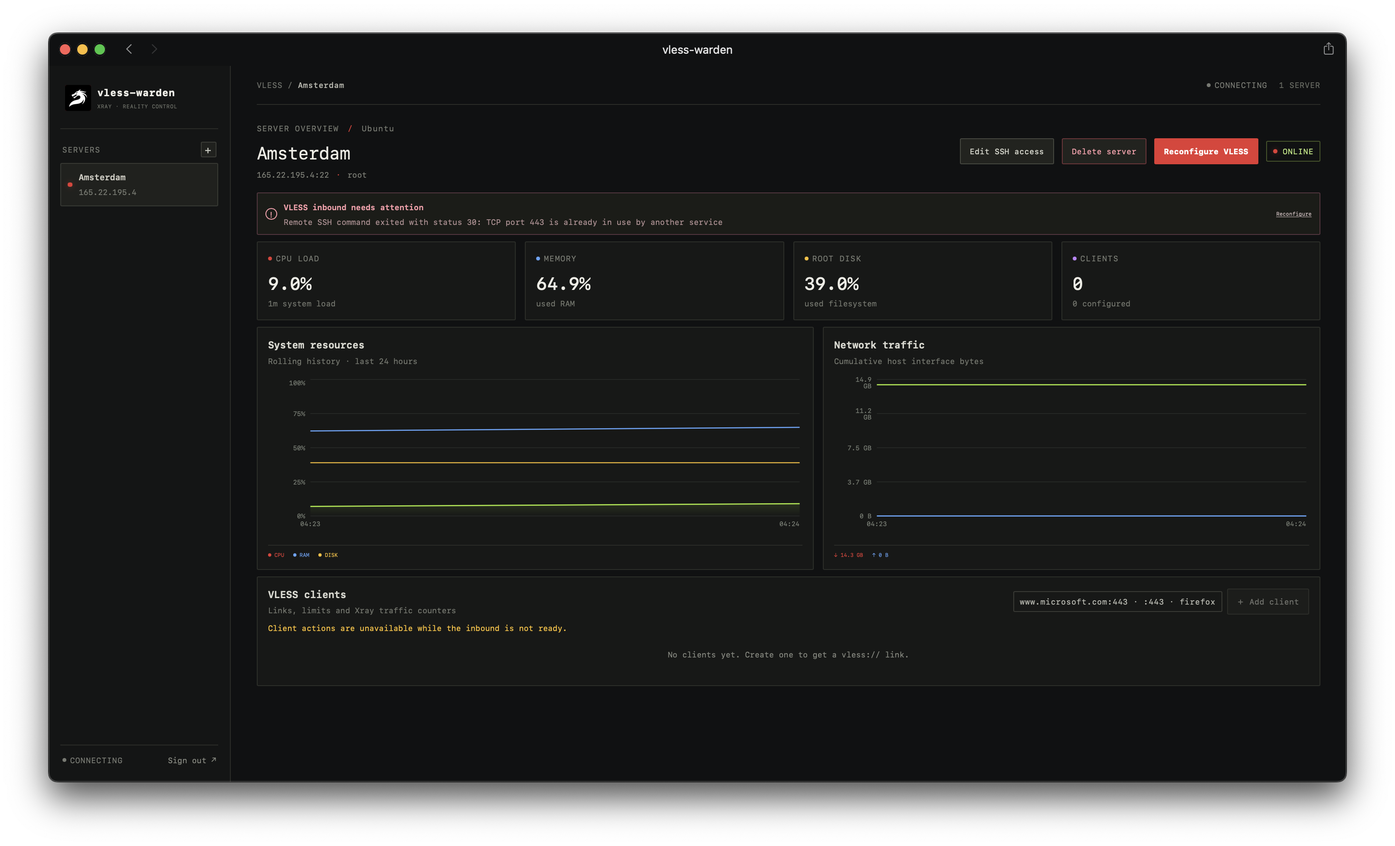
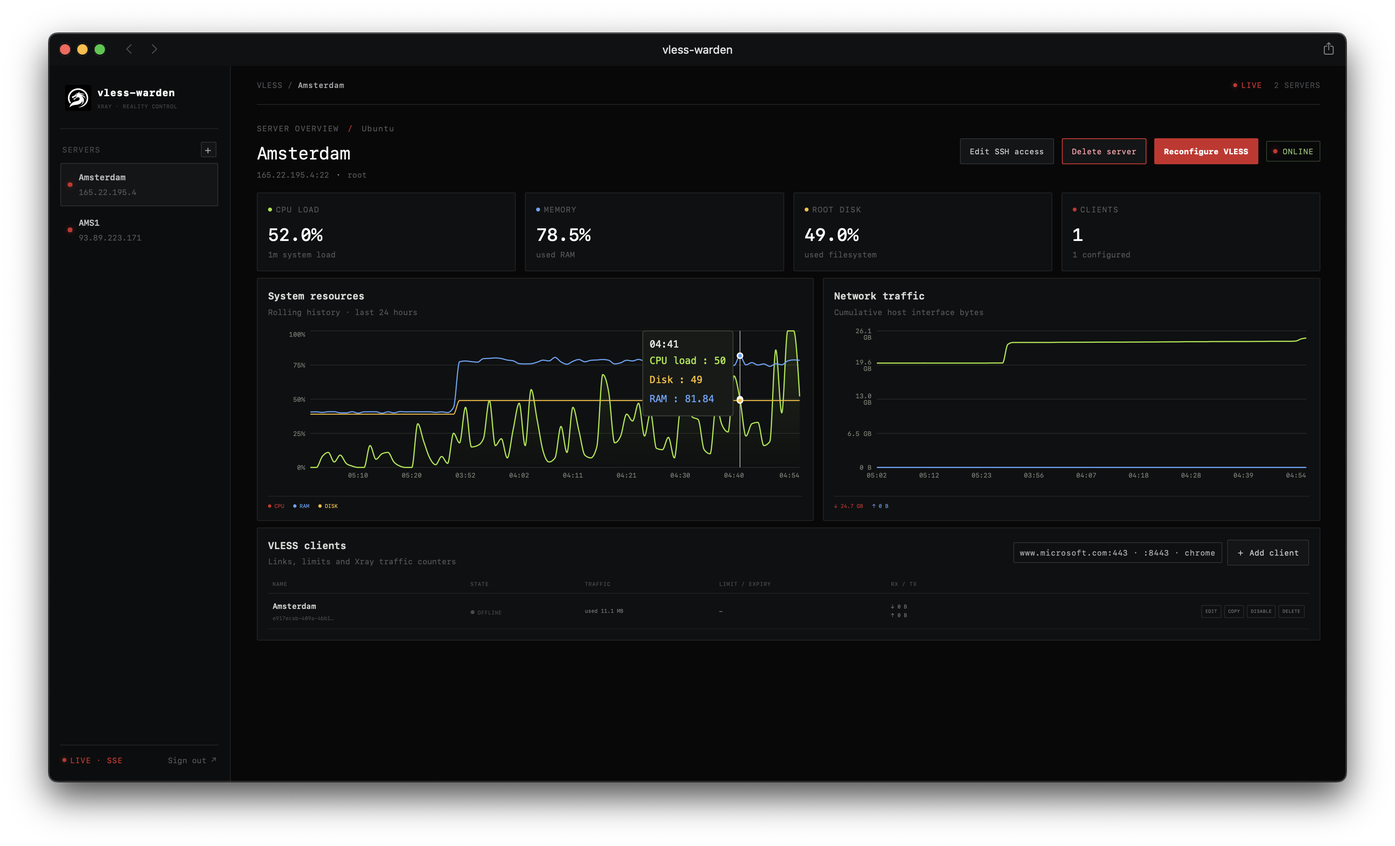
minor redesign

diff --git a/frontend/src/style.css b/frontend/src/style.css
@@ -1,39 +1,228 @@
 @import "tailwindcss";
 
-:root{font-family:ui-monospace,SFMono-Regular,Menlo,Monaco,Consolas,"Liberation Mono",monospace;color:#dddcd4;background:#101112;font-synthesis:none;text-rendering:optimizeLegibility;font-size:13px}*{box-sizing:border-box}body{margin:0;min-width:360px;min-height:100vh}button,input,textarea{font:inherit}button{cursor:pointer}.shell{min-height:100vh}.sidebar{position:fixed;z-index:3;inset:0 auto 0 0;width:250px;background:#141515;border-right:1px solid #2b2c28;padding:20px 14px;display:flex;flex-direction:column}.brand{display:flex;align-items:center;gap:10px;padding:4px 7px 27px;border-bottom:1px solid #2b2c28}.brand-glyph{width:32px;height:32px;display:grid;place-items:center;color:#171910;background:#e53935;font-weight:900;border-radius:3px;font-size:13px;letter-spacing:-2px;padding-right:2px}.brand strong,.brand small{display:block}.brand strong{font-size:12px;letter-spacing:.7px;color:#f0efe8}.brand small{color:#6f7269;font-size:8px;margin-top:4px;letter-spacing:.65px}.nav-heading{display:flex;align-items:center;justify-content:space-between;margin:19px 3px 9px;color:#74776f;font-size:9px;letter-spacing:1px}.square{border:1px solid #3b3c36;color:#c9cbc1;background:#20211e;border-radius:2px;width:24px;height:24px;font-size:16px}.square:hover{border-color:#e53935;color:#e53935}.server-list{display:grid;gap:3px}.server-nav{display:flex;align-items:center;gap:10px;width:100%;padding:9px 8px;text-align:left;border:1px solid transparent;border-radius:2px;background:transparent;color:#cccac0}.server-nav:hover,.server-nav.active{background:#20211e;border-color:#373932}.server-nav span{min-width:0}.server-nav strong,.server-nav small{display:block;overflow:hidden;text-overflow:ellipsis;white-space:nowrap}.server-nav strong{font-size:11px;font-weight:600}.server-nav small{font-size:9px;color:#777a71;margin-top:4px}.status-mark{display:inline-block;width:7px;height:7px;flex:none;border-radius:50%;background:#a3a49b}.status-mark.online{background:#e53935;box-shadow:0 0 8px #e5393566}.status-mark.error{background:#fb7185;box-shadow:0 0 8px #fb718555}.status-mark.pending{background:#fbbf24}.side-message,.side-error{font-size:10px;color:#777a71;padding:10px 7px;line-height:1.6}.side-error{color:#fb7185}.side-error button{display:block;background:none;border:0;padding:7px 0;color:#c5c6b9;text-decoration:underline}.sidebar-bottom{margin-top:auto;border-top:1px solid #2b2c28;padding:14px 3px 0;display:flex;justify-content:space-between;align-items:center;gap:5px}.stream-state{display:inline-flex;gap:6px;align-items:center;color:#787a72;font-size:9px;letter-spacing:.7px;white-space:nowrap}.stream-state i{width:6px;height:6px;border-radius:50%;background:#787a72}.stream-state.live{color:#e53935}.stream-state.live i{background:#e53935;box-shadow:0 0 7px #e5393588}.stream-state.paused{color:#fbbf24}.stream-state.paused i{background:#fbbf24}.logout{border:0;background:none;color:#888a81;font-size:9px}.logout:hover{color:#dddcd4}.main{margin-left:250px;max-width:1800px;padding:0 34px 54px}.topbar{height:52px;display:flex;align-items:center;justify-content:space-between;border-bottom:1px solid #2b2c28;color:#6e716a;font-size:10px;letter-spacing:.5px}.crumb b{color:#b8b8ae;font-weight:500}.topbar-right{display:flex;gap:18px;align-items:center}.user-chip{color:#666961;font-size:9px}.server-heading{display:flex;justify-content:space-between;align-items:flex-start;padding:27px 0 19px}.eyebrow{color:#777a71;letter-spacing:1px;font-size:9px}.slash{color:#e53935;padding:0 5px}.server-heading h1{font-size:21px;letter-spacing:-.7px;margin:9px 0 5px;color:#eeeDE5}.hostline{color:#7c7e75;font-size:10px;margin:0}.hostline span{color:#e53935;padding:0 3px}.status-badge{display:inline-flex;align-items:center;gap:8px;border:1px solid #393a34;padding:6px 9px;color:#b7b8af;border-radius:2px;font-size:9px;letter-spacing:.5px}.status-badge.online{border-color:#435426;color:#b5df77}.status-badge.error{border-color:#59323c;color:#fb9aa8}.stats-grid{display:grid;grid-template-columns:repeat(4,minmax(0,1fr));gap:9px}.panel,.stat{background:#171817;border:1px solid #2c2e29;border-radius:2px}.stat{padding:12px 13px;min-height:90px}.stat .eyebrow{display:flex;align-items:center;gap:6px;font-size:8px}.stat .eyebrow i{width:6px;height:6px;border-radius:50%}.stat i.green{background:#e53935}.stat i.blue{background:#60a5fa}.stat i.amber{background:#fbbf24}.stat i.purple{background:#c084fc}.stat>strong{display:block;font-size:22px;color:#eeede5;margin-top:9px;font-weight:500}.stat>small{display:block;color:#72756c;font-size:9px;margin-top:3px}.charts-grid{display:grid;grid-template-columns:1.12fr 1fr;gap:10px;margin-top:10px}.chart-panel,.peer-chart{padding:14px 15px 10px;min-width:0}.panel-title h2{font-size:12px;font-weight:600;margin:0;color:#d9d9d0}.panel-title p{font-size:9px;color:#74776e;margin:5px 0 0}.chart{height:205px;margin-top:15px}.chart-legend{display:flex;gap:14px;border-top:1px solid #2a2b27;margin-top:9px;padding-top:8px;color:#888a81;font-size:8px}.chart-legend .green{color:#e53935}.chart-legend .blue{color:#60a5fa}.chart-legend .amber{color:#fbbf24}.chart-state{height:205px;display:grid;place-items:center;text-align:center;padding:18px;color:#74776e;font-size:10px;line-height:1.6}.peer-panel{margin-top:10px;padding:13px 14px 8px}.panel-header{display:flex;justify-content:space-between;align-items:center;gap:12px}.button{border:1px solid #45473e;border-radius:2px;background:#22231f;color:#d4d5ca;padding:7px 10px;font-size:9px;letter-spacing:.2px;white-space:nowrap}.button:hover:not(:disabled){border-color:#e53935;color:#ffaaa0}.button.primary{border-color:#e53935;background:#e53935;color:#220e0e;font-weight:700}.button.primary:hover:not(:disabled){background:#ff6659;color:#10120c}.button.quiet{background:transparent}.button:disabled{opacity:.45;cursor:not-allowed}.table-scroll{overflow:auto;margin-top:12px}table{width:100%;border-collapse:collapse;min-width:790px}thead th{color:#777a71;font-weight:500;font-size:8px;text-align:left;padding:8px 7px;border-bottom:1px solid #33352e;letter-spacing:.75px}tbody tr{cursor:pointer}tbody tr:hover,tbody tr.selected{background:#1e201b}td{padding:10px 7px;border-bottom:1px solid #282a25;color:#b9bab1;font-size:9px;vertical-align:middle}td strong,td small{display:block}td strong{font-size:10px;color:#ddddd4;font-weight:500}td small{font-size:8px;color:#71746b;margin-top:4px}.mono{font-size:8px!important}.peer-state{display:inline-flex;align-items:center;gap:5px;font-size:8px;letter-spacing:.4px}.peer-state i{width:6px;height:6px;background:currentColor;border-radius:50%}.peer-state.online{color:#e53935}.peer-state.offline{color:#85877d}.traffic{line-height:1.7;color:#96988e}.actions{text-align:right;white-space:nowrap}.actions button{background:none;border:1px solid #3d3f38;border-radius:2px;padding:4px 5px;margin-left:4px;color:#aeb0a6;font-size:7px;letter-spacing:.25px}.actions button:hover:not(:disabled){border-color:#e53935;color:#c3ee81}.actions button.danger:hover:not(:disabled){border-color:#fb7185;color:#fb9aa8}.actions button:disabled{opacity:.4;cursor:not-allowed}.row-error{color:#fb9aa8!important;font-size:9px!important;padding:5px 8px!important}.state-box{padding:23px 10px;text-align:center;color:#85877e;font-size:10px}.inline-note{font-size:9px;color:#fbbf24;padding:10px 0 0}.peer-form{display:flex;align-items:end;gap:9px;background:#1d1f1b;border-top:1px solid #30322c;margin-top:12px;padding:11px 8px 7px}.peer-form label,.form-stack label,.auth-card label{display:grid;gap:6px;color:#aaa99f;font-size:9px}.peer-form label{flex:1}.peer-form input,.form-stack input,.form-stack textarea,.auth-card input{width:100%;background:#101110;border:1px solid #383a34;border-radius:2px;color:#e0dfd6;padding:8px 9px;outline:none}.form-stack textarea{resize:vertical}.peer-form input:focus,.form-stack input:focus,.form-stack textarea:focus,.auth-card input:focus{border-color:#e53935}.alert{display:flex;align-items:center;gap:10px;padding:10px 12px;margin:0 0 10px;border:1px solid #45463d;background:#1b1c18;border-radius:2px}.alert>span{width:18px;height:18px;display:grid;place-items:center;border:1px solid currentColor;border-radius:50%;font-size:10px}.alert.error{border-color:#56353e;color:#ff9fac}.alert div{flex:1}.alert strong{font-size:9px;font-weight:600}.alert p{font-size:9px;color:#b29093;margin:4px 0 0}.alert button{background:none;border:0;color:#d5c1c2;font-size:8px;text-decoration:underline}.error-text{color:#f18b94}.welcome{margin-top:70px;padding:34px;max-width:600px}.welcome h1{font-size:20px;margin:12px 0 8px}.welcome p{font-size:10px;color:#85877e;line-height:1.7;margin-bottom:18px}.auth-wrap{min-height:100vh;display:grid;place-items:center;padding:18px;background:radial-gradient(ellipse at 50% 10%,#1d2118,#101112 65%)}.auth-card{width:min(100%,390px);padding:24px}.auth-brand{margin-bottom:28px}.auth-card h1{font-size:19px;margin:9px 0 6px}.auth-card>p{color:#81837a;font-size:10px;margin:0 0 20px}.auth-card form{display:grid;gap:13px}.wide{width:100%;margin-top:4px}.link-button{display:block;margin:15px auto 0;border:0;background:none;color:#e53935;font-size:9px}.form-stack{display:grid;gap:10px;margin-top:17px}.dialog{position:relative;width:min(100%,490px);padding:22px}.dialog h2{font-size:17px;margin:9px 0}.dialog-copy{font-size:9px;line-height:1.7;color:#85877e;margin:0 0 16px}.close{position:absolute;right:12px;top:10px;color:#85877e;font-size:18px;background:none;border:0}.field-row{display:grid;grid-template-columns:.75fr 1.25fr;gap:10px}.form-hint{font-size:8px;color:#77796f;line-height:1.5;margin:0}.form-error{color:#ff9fac;background:#351e22;border:1px solid #56353e;padding:8px;font-size:9px}.dialog-actions{display:flex;justify-content:flex-end;gap:6px;margin-top:14px}.result-panel{display:flex;align-items:flex-start;gap:10px;padding:12px;margin:18px 0;border:1px solid #3b3c35;background:#1d1f1a}.result-panel.online{border-color:#435426}.result-panel.error{border-color:#59323c}.result-panel div{flex:1}.result-panel strong{font-size:10px}.result-panel p{font-size:9px;color:#95968c;line-height:1.6;margin:5px 0 0}.spinner{display:inline-block;width:9px;height:9px;border:1px solid #777;border-top-color:currentColor;border-radius:50%;animation:spin .8s linear infinite;margin-right:6px}@keyframes spin{to{transform:rotate(360deg)}}.qr-wrap{display:flex;align-items:center;gap:13px;padding:9px;background:#e2e2d8;color:#171813;width:max-content;max-width:100%;margin:15px 0}.qr-wrap img{width:102px;height:102px}.qr-wrap strong,.qr-wrap code,.qr-wrap small{display:block}.qr-wrap strong{font-size:11px}.qr-wrap code{font-size:8px;margin-top:6px}.qr-wrap small{font-size:7px;color:#696b60;margin-top:7px;max-width:150px}.config-output{width:100%;background:#101110;color:#c2d69a;border:1px solid #383a34;border-radius:2px;padding:10px;font-size:8px;line-height:1.6;resize:vertical}.peer-chart{margin:10px 0 0}.peer-chart .chart{height:180px}
+/* ─── Design tokens ─────────────────────────────────────────────────────────── */
+/* bg:    #080809  surface: #0f1011  panel: #131415  raised: #1a1b1c          */
+/* text:  #e8e8e6  muted:   #565859  dim:   #36383a  border: #242526          */
+/* red:   #cc2929  red-dim: #3d1a1a  white: #ffffff  white-soft: #d8d8d6      */
+
+:root{font-family:ui-monospace,SFMono-Regular,Menlo,Monaco,Consolas,"Liberation Mono",monospace;color:#e8e8e6;background:#080809;font-synthesis:none;text-rendering:optimizeLegibility;font-size:13px}
+*{box-sizing:border-box}
+body{margin:0;min-width:360px;min-height:100vh}
+button,input,textarea{font:inherit}
+button{cursor:pointer}
+.shell{min-height:100vh}
+
+/* ─── Sidebar ────────────────────────────────────────────────────────────────── */
+.sidebar{position:fixed;z-index:3;inset:0 auto 0 0;width:250px;background:#0c0d0e;border-right:1px solid #1f2022;padding:20px 14px;display:flex;flex-direction:column}
+.brand{display:flex;align-items:center;gap:10px;padding:4px 7px 27px;border-bottom:1px solid #1f2022}
+.brand-glyph{width:32px;height:32px;display:grid;place-items:center;color:#fff;background:#1a1b1c;font-weight:900;border-radius:3px;font-size:13px;letter-spacing:-2px;padding-right:2px;border:none}
+.brand strong,.brand small{display:block}
+.brand strong{font-size:12px;letter-spacing:.7px;color:#ffffff}
+.brand small{color:#484a4c;font-size:8px;margin-top:4px;letter-spacing:.65px}
+.nav-heading{display:flex;align-items:center;justify-content:space-between;margin:19px 3px 9px;color:#484a4c;font-size:9px;letter-spacing:1px}
+.square{border:1px solid #2a2c2e;color:#a0a2a4;background:#141516;border-radius:2px;width:24px;height:24px;font-size:16px}
+.square:hover{border-color:#ffffff;color:#ffffff}
+.server-list{display:grid;gap:3px}
+.server-nav{display:flex;align-items:center;gap:10px;width:100%;padding:9px 8px;text-align:left;border:1px solid transparent;border-radius:2px;background:transparent;color:#b8babb}
+.server-nav:hover,.server-nav.active{background:#141516;border-color:#2a2c2e}
+.server-nav span{min-width:0}
+.server-nav strong,.server-nav small{display:block;overflow:hidden;text-overflow:ellipsis;white-space:nowrap}
+.server-nav strong{font-size:11px;font-weight:600}
+.server-nav small{font-size:9px;color:#565859;margin-top:4px}
+.status-mark{display:inline-block;width:7px;height:7px;flex:none;border-radius:50%;background:#3a3c3e}
+.status-mark.online{background:#cc2929;box-shadow:0 0 8px rgba(204,41,41,.55)}
+.status-mark.error{background:#cc2929;box-shadow:0 0 8px rgba(204,41,41,.5)}
+.status-mark.pending{background:#fbbf24}
+.side-message,.side-error{font-size:10px;color:#565859;padding:10px 7px;line-height:1.6}
+.side-error{color:#e06060}
+.side-error button{display:block;background:none;border:0;padding:7px 0;color:#a8a9ab;text-decoration:underline}
+.sidebar-bottom{margin-top:auto;border-top:1px solid #1f2022;padding:14px 3px 0;display:flex;justify-content:space-between;align-items:center;gap:5px}
+.stream-state{display:inline-flex;gap:6px;align-items:center;color:#565859;font-size:9px;letter-spacing:.7px;white-space:nowrap}
+.stream-state i{width:6px;height:6px;border-radius:50%;background:#565859}
+.stream-state.live{color:#cc2929}
+.stream-state.live i{background:#cc2929;box-shadow:0 0 7px rgba(204,41,41,.6)}
+.stream-state.paused{color:#fbbf24}
+.stream-state.paused i{background:#fbbf24}
+.logout{border:0;background:none;color:#565859;font-size:9px}
+.logout:hover{color:#d8d8d6}
+
+/* ─── Main layout ────────────────────────────────────────────────────────────── */
+.main{margin-left:250px;max-width:1800px;padding:0 34px 54px}
+.topbar{height:52px;display:flex;align-items:center;justify-content:space-between;border-bottom:1px solid #1f2022;color:#525456;font-size:10px;letter-spacing:.5px}
+.crumb b{color:#a8a9ab;font-weight:500}
+.topbar-right{display:flex;gap:18px;align-items:center}
+.user-chip{color:#484a4c;font-size:9px}
+
+/* ─── Server heading ─────────────────────────────────────────────────────────── */
+.server-heading{display:flex;justify-content:space-between;align-items:flex-start;padding:27px 0 19px}
+.eyebrow{color:#565859;letter-spacing:1px;font-size:9px}
+.slash{color:#cc2929;padding:0 5px}
+.server-heading h1{font-size:21px;letter-spacing:-.7px;margin:9px 0 5px;color:#ffffff}
+.hostline{color:#565859;font-size:10px;margin:0}
+.hostline span{color:#a8a9ab;padding:0 3px}
+.status-badge{display:inline-flex;align-items:center;gap:8px;border:1px solid #2a2c2e;padding:6px 9px;color:#a8a9ab;border-radius:2px;font-size:9px;letter-spacing:.5px}
+.status-badge.online{border-color:#2d3828;color:#8db86e}
+.status-badge.error{border-color:#3d1a1a;color:#e06060}
+
+/* ─── Stats panels ───────────────────────────────────────────────────────────── */
+.stats-grid{display:grid;grid-template-columns:repeat(4,minmax(0,1fr));gap:9px}
+.panel,.stat{background:#0f1011;border:1px solid #1f2022;border-radius:2px}
+.stat{padding:12px 13px;min-height:90px}
+.stat .eyebrow{display:flex;align-items:center;gap:6px;font-size:8px}
+.stat .eyebrow i{width:6px;height:6px;border-radius:50%}
+.stat i.green{background:#a3e635}.stat i.blue{background:#60a5fa}.stat i.amber{background:#fbbf24}.stat i.purple{background:#cc2929}
+.stat>strong{display:block;font-size:22px;color:#ffffff;margin-top:9px;font-weight:500}
+.stat>small{display:block;color:#565859;font-size:9px;margin-top:3px}
+
+/* ─── Charts ─────────────────────────────────────────────────────────────────── */
+.charts-grid{display:grid;grid-template-columns:1.12fr 1fr;gap:10px;margin-top:10px}
+.chart-panel,.peer-chart{padding:14px 15px 10px;min-width:0}
+.panel-title h2{font-size:12px;font-weight:600;margin:0;color:#d8d8d6}
+.panel-title p{font-size:9px;color:#565859;margin:5px 0 0}
+.chart{height:205px;margin-top:15px}
+.chart-legend{display:flex;gap:14px;border-top:1px solid #1f2022;margin-top:9px;padding-top:8px;color:#565859;font-size:8px}
+.chart-legend .green{color:#cc2929}.chart-legend .blue{color:#60a5fa}.chart-legend .amber{color:#fbbf24}
+.chart-state{height:205px;display:grid;place-items:center;text-align:center;padding:18px;color:#565859;font-size:10px;line-height:1.6}
+
+/* ─── Peer panel / table ─────────────────────────────────────────────────────── */
+.peer-panel{margin-top:10px;padding:13px 14px 8px}
+.panel-header{display:flex;justify-content:space-between;align-items:center;gap:12px}
+.button{border:1px solid #2a2c2e;border-radius:2px;background:#141516;color:#c8cacc;padding:7px 10px;font-size:9px;letter-spacing:.2px;white-space:nowrap}
+.button:hover:not(:disabled){border-color:#ffffff;color:#ffffff}
+.button.primary{border-color:#cc2929;background:#cc2929;color:#ffffff;font-weight:700}
+.button.primary:hover:not(:disabled){background:#e63333;border-color:#e63333;color:#ffffff}
+.button.quiet{background:transparent}
+.button:disabled{opacity:.35;cursor:not-allowed}
+.table-scroll{overflow:auto;margin-top:12px}
+table{width:100%;border-collapse:collapse;min-width:790px}
+thead th{color:#484a4c;font-weight:500;font-size:8px;text-align:left;padding:8px 7px;border-bottom:1px solid #1f2022;letter-spacing:.75px}
+tbody tr{cursor:pointer}
+tbody tr:hover,tbody tr.selected{background:#131415}
+td{padding:10px 7px;border-bottom:1px solid #1a1b1c;color:#9a9b9d;font-size:9px;vertical-align:middle}
+td strong,td small{display:block}
+td strong{font-size:10px;color:#d8d8d6;font-weight:500}
+td small{font-size:8px;color:#484a4c;margin-top:4px}
+.mono{font-size:8px!important}
+.peer-state{display:inline-flex;align-items:center;gap:5px;font-size:8px;letter-spacing:.4px}
+.peer-state i{width:6px;height:6px;background:currentColor;border-radius:50%}
+.peer-state.online{color:#cc2929}
+.peer-state.offline{color:#484a4c}
+.traffic{line-height:1.7;color:#787a7c}
+.actions{text-align:right;white-space:nowrap}
+.actions button{background:none;border:1px solid #242526;border-radius:2px;padding:4px 5px;margin-left:4px;color:#787a7c;font-size:7px;letter-spacing:.25px}
+.actions button:hover:not(:disabled){border-color:#ffffff;color:#ffffff}
+.actions button.danger:hover:not(:disabled){border-color:#cc2929;color:#e06060}
+.actions button:disabled{opacity:.4;cursor:not-allowed}
+.row-error{color:#e06060!important;font-size:9px!important;padding:5px 8px!important}
+.state-box{padding:23px 10px;text-align:center;color:#484a4c;font-size:10px}
+.inline-note{font-size:9px;color:#fbbf24;padding:10px 0 0}
+
+/* ─── Peer form ──────────────────────────────────────────────────────────────── */
+.peer-form{display:flex;align-items:end;gap:9px;background:#0c0d0e;border-top:1px solid #1f2022;margin-top:12px;padding:11px 8px 7px}
+.peer-form label,.form-stack label,.auth-card label{display:grid;gap:6px;color:#787a7c;font-size:9px}
+.peer-form label{flex:1}
+.peer-form input,.form-stack input,.form-stack textarea,.auth-card input{width:100%;background:#080809;border:1px solid #272829;border-radius:2px;color:#d8d8d6;padding:8px 9px;outline:none}
+.form-stack textarea{resize:vertical}
+.peer-form input:focus,.form-stack input:focus,.form-stack textarea:focus,.auth-card input:focus{border-color:#a8a9ab}
+
+/* ─── Alerts ─────────────────────────────────────────────────────────────────── */
+.alert{display:flex;align-items:center;gap:10px;padding:10px 12px;margin:0 0 10px;border:1px solid #2a2c2e;background:#0f1011;border-radius:2px}
+.alert>span{width:18px;height:18px;display:grid;place-items:center;border:1px solid currentColor;border-radius:50%;font-size:10px}
+.alert.error{border-color:#3d1a1a;color:#e06060}
+.alert div{flex:1}
+.alert strong{font-size:9px;font-weight:600}
+.alert p{font-size:9px;color:#787a7c;margin:4px 0 0}
+.alert button{background:none;border:0;color:#a8a9ab;font-size:8px;text-decoration:underline}
+.error-text{color:#e06060}
+
+/* ─── Welcome / auth ─────────────────────────────────────────────────────────── */
+.welcome{margin-top:70px;padding:34px;max-width:600px}
+.welcome h1{font-size:20px;margin:12px 0 8px}
+.welcome p{font-size:10px;color:#565859;line-height:1.7;margin-bottom:18px}
+.auth-wrap{min-height:100vh;display:grid;place-items:center;padding:18px;background:#080809}
+.auth-card{width:min(100%,390px);padding:24px}
+.auth-brand{margin-bottom:28px}
+.auth-card h1{font-size:19px;margin:9px 0 6px}
+.auth-card>p{color:#565859;font-size:10px;margin:0 0 20px}
+.auth-card form{display:grid;gap:13px}
+.wide{width:100%;margin-top:4px}
+.link-button{display:block;margin:15px auto 0;border:0;background:none;color:#a8a9ab;font-size:9px}
+.link-button:hover{color:#ffffff}
+
+/* ─── Dialogs / forms ────────────────────────────────────────────────────────── */
+.form-stack{display:grid;gap:10px;margin-top:17px}
+.dialog{position:relative;width:min(100%,490px);padding:22px;background:#0f1011;border:1px solid #1f2022}
+.dialog h2{font-size:17px;margin:9px 0;color:#ffffff}
+.dialog-copy{font-size:9px;line-height:1.7;color:#565859;margin:0 0 16px}
+.close{position:absolute;right:12px;top:10px;color:#565859;font-size:18px;background:none;border:0}
+.close:hover{color:#ffffff}
+.field-row{display:grid;grid-template-columns:.75fr 1.25fr;gap:10px}
+.form-hint{font-size:8px;color:#484a4c;line-height:1.5;margin:0}
+.form-error{color:#e06060;background:#160e0e;border:1px solid #3d1a1a;padding:8px;font-size:9px}
+.dialog-actions{display:flex;justify-content:flex-end;gap:6px;margin-top:14px}
+.result-panel{display:flex;align-items:flex-start;gap:10px;padding:12px;margin:18px 0;border:1px solid #2a2c2e;background:#0c0d0e}
+.result-panel.online{border-color:#2d3828}
+.result-panel.error{border-color:#3d1a1a}
+.result-panel div{flex:1}
+.result-panel strong{font-size:10px}
+.result-panel p{font-size:9px;color:#565859;line-height:1.6;margin:5px 0 0}
+.spinner{display:inline-block;width:9px;height:9px;border:1px solid #484a4c;border-top-color:currentColor;border-radius:50%;animation:spin .8s linear infinite;margin-right:6px}
+@keyframes spin{to{transform:rotate(360deg)}}
+.qr-wrap{display:flex;align-items:center;gap:13px;padding:9px;background:#e2e2d8;color:#171813;width:max-content;max-width:100%;margin:15px 0}
+.qr-wrap img{width:102px;height:102px}
+.qr-wrap strong,.qr-wrap code,.qr-wrap small{display:block}
+.qr-wrap strong{font-size:11px}
+.qr-wrap code{font-size:8px;margin-top:6px}
+.qr-wrap small{font-size:7px;color:#696b60;margin-top:7px;max-width:150px}
+.config-output{width:100%;background:#080809;color:#b8c9a0;border:1px solid #272829;border-radius:2px;padding:10px;font-size:8px;line-height:1.6;resize:vertical}
+.peer-chart{margin:10px 0 0}
+.peer-chart .chart{height:180px}
 @media(max-width:1050px){.main{padding-left:22px;padding-right:22px}.charts-grid{grid-template-columns:1fr}.chart{height:190px}}
 @media(max-width:700px){.sidebar{position:relative;width:100%;height:auto;padding:10px 12px;display:block}.brand{padding:1px 2px 9px;border:0}.brand-glyph{width:27px;height:27px}.nav-heading{margin:8px 2px 4px}.server-list{display:flex;gap:4px;overflow:auto}.server-nav{min-width:155px;width:auto;padding:7px}.sidebar-bottom{display:none}.main{margin:0;padding:0 12px 32px}.topbar{height:40px}.topbar-right .stream-state{font-size:0}.user-chip{font-size:8px}.server-heading{padding:20px 0 14px}.server-heading h1{font-size:18px}.stats-grid{grid-template-columns:repeat(2,minmax(0,1fr));gap:6px}.stat{min-height:80px;padding:10px}.stat>strong{font-size:19px}.charts-grid{gap:7px;margin-top:7px}.chart-panel,.peer-panel,.peer-chart{padding:11px 9px}.chart{height:180px}.panel-header{align-items:flex-start}.peer-form{flex-direction:column;align-items:stretch}.actions button{padding:4px 3px;font-size:7px}.alert{align-items:flex-start}.alert button{align-self:center}.dialog{padding:18px 14px}.welcome{margin-top:40px;padding:23px 17px}.field-row{grid-template-columns:1fr 1fr}.config-dialog .dialog-actions{flex-wrap:wrap}}
 /* Private SSH key text stays masked while still allowing multiline paste. */
 .form-stack textarea{-webkit-text-security:disc}
 .peer-state.checking{color:#fbbf24}
-.panel-actions{display:flex;align-items:center;gap:7px;flex-wrap:wrap}.import-label{display:grid;gap:7px;color:#aaa99f;font-size:9px;margin-top:15px}.import-label select{background:#101110;border:1px solid #383a34;border-radius:2px;color:#e0dfd6;padding:9px;outline:none}.import-peers{margin-top:16px;border-top:1px solid #30322c;padding-top:11px}.import-peer{display:flex;align-items:center;gap:9px;padding:9px 0;border-bottom:1px solid #282a25;color:#ddd;font-size:10px}.import-peer input{accent-color:#e53935}.import-peer span{min-width:0}.import-peer strong,.import-peer small{display:block}.import-peer small{color:#777a71;font-size:8px;margin-top:4px}
-.import-key{display:block!important;margin-top:7px;width:100%;background:#101110;border:1px solid #383a34;border-radius:2px;color:#e0dfd6;padding:7px}
+.panel-actions{display:flex;align-items:center;gap:7px;flex-wrap:wrap}
+.import-label{display:grid;gap:7px;color:#787a7c;font-size:9px;margin-top:15px}
+.import-label select{background:#080809;border:1px solid #272829;border-radius:2px;color:#d8d8d6;padding:9px;outline:none}
+.import-peers{margin-top:16px;border-top:1px solid #1f2022;padding-top:11px}
+.import-peer{display:flex;align-items:center;gap:9px;padding:9px 0;border-bottom:1px solid #1a1b1c;color:#d8d8d6;font-size:10px}
+.import-peer input{accent-color:#cc2929}
+.import-peer span{min-width:0}
+.import-peer strong,.import-peer small{display:block}
+.import-peer small{color:#484a4c;font-size:8px;margin-top:4px}
+.import-key{display:block!important;margin-top:7px;width:100%;background:#080809;border:1px solid #272829;border-radius:2px;color:#d8d8d6;padding:7px}
 .limit-field{min-width:135px!important}.limit-note{color:#fbbf24!important;font-size:7px!important}
 .peer-form-actions{display:flex;align-items:center;gap:7px;margin-left:auto}.limits-active{border-color:#fbbf24;color:#fbbf24}.limits-dialog{width:min(100%,460px)}
-.confirm-dialog{width:min(100%,430px);border-color:#63343b}.confirm-icon{width:32px;height:32px;display:grid;place-items:center;border:1px solid #e53935;border-radius:50%;color:#ff9fac;font-size:16px;margin-bottom:16px}.confirm-dialog h2{margin-bottom:8px}.solid-danger{background:#9f2630!important;border-color:#d94a55!important;color:#fff!important}.solid-danger:hover:not(:disabled){background:#d94a55!important;border-color:#ff7b83!important}.confirm-overlay{background:rgba(5,5,5,.78)}
-.peer-state.unavailable{color:#fb7185}
-.brand-glyph{overflow:hidden;padding:0;background:#76000b}
+.confirm-dialog{width:min(100%,430px);border-color:#3d1a1a}
+.confirm-icon{width:32px;height:32px;display:grid;place-items:center;border:1px solid #cc2929;border-radius:50%;color:#e06060;font-size:16px;margin-bottom:16px}
+.confirm-dialog h2{margin-bottom:8px}
+.solid-danger{background:#8b1a1a!important;border-color:#cc2929!important;color:#fff!important}
+.solid-danger:hover:not(:disabled){background:#cc2929!important;border-color:#e63333!important}
+.confirm-overlay{background:rgba(0,0,0,.85)}
+.peer-state.unavailable{color:#cc2929}
+.brand-glyph{overflow:hidden;padding:0;background:#0c0d0e;border:none}
 .wireguard-logo{display:block;width:100%;height:100%;object-fit:cover}
-.auth-wrap{background:#101112}
+.auth-wrap{background:#080809}
 
-/* UI scale, red WireGuard accent, and responsive server dialog */
-:root{font-size:14px;--accent:#e53935;--accent-hover:#ff6659}
+/* UI scale and responsive server dialog */
+:root{font-size:14px;--accent:#cc2929;--accent-hover:#e63333}
 .sidebar{width:264px;padding:22px 16px}
 .main{margin-left:264px}
 .brand-glyph{width:36px;height:36px;font-size:14px}
 .server-heading h1{font-size:23px}
 .panel{padding:16px}
-.overlay{position:fixed;inset:0;z-index:20;display:grid;place-items:center;padding:16px;overflow-y:auto;overscroll-behavior:contain;background:rgba(0,0,0,.72)}
-.dialog{width:min(100%,520px);max-width:100%;min-width:0;max-height:calc(100dvh - 32px);overflow-y:auto;margin:auto;padding:26px}
+.overlay{position:fixed;inset:0;z-index:20;display:grid;place-items:center;padding:16px;overflow-y:auto;overscroll-behavior:contain;background:rgba(0,0,0,.85)}
+.dialog{width:min(100%,520px);max-width:100%;min-width:0;max-height:calc(100dvh - 32px);overflow-y:auto;margin:auto;padding:26px;background:#0f1011;border:1px solid #1f2022}
 .dialog>*{min-width:0}
 .form-stack,.form-stack label,.field-row{min-width:0}
 .form-stack input,.form-stack textarea{min-width:0;max-width:100%}
 .field-row{grid-template-columns:minmax(0,.75fr) minmax(0,1.25fr)}
-.button.primary{background:#e53935;border-color:#e53935;color:#fff}
-.button.primary:hover{background:#ff4d46;border-color:#ff4d46}
+.button.primary{background:#cc2929;border-color:#cc2929;color:#fff}
+.button.primary:hover{background:#e63333;border-color:#e63333}
 @media(max-width:700px){.sidebar{width:100%;padding:10px 12px}.main{margin:0}.dialog{width:100%;max-height:calc(100dvh - 24px);padding:20px 16px}.field-row{grid-template-columns:minmax(0,1fr)}}
 
-:root{font-size:15px}.sidebar{width:280px;padding:25px 18px}.main{margin-left:280px;padding-left:40px;padding-right:40px}.brand strong{font-size:15px}.brand-glyph{width:40px;height:40px}.topbar{height:60px;font-size:12px}.server-heading h1{font-size:27px}.server-heading{align-items:center}.heading-actions{display:flex;align-items:center;gap:12px;flex-wrap:wrap}.button{font-size:11px;padding:10px 14px}.stats-grid,.charts-grid{gap:14px}.stat{padding:16px;min-height:108px}.stat>strong{font-size:27px}.stat .eyebrow,.stat>small,.panel-title p{font-size:10px}.panel-title h2{font-size:15px}.chart,.chart-state{height:250px}.button.danger{border-color:#713238;color:#ff9fac}.button.danger:hover{background:#351e22}.server-nav{padding:12px 10px}.server-nav strong{font-size:13px}@media(max-width:700px){.sidebar{width:100%;padding:10px 12px}.main{margin:0;padding:0 16px 36px}.server-heading{align-items:flex-start;gap:12px;flex-direction:column}.heading-actions{width:100%;justify-content:space-between}.topbar{height:48px}.chart,.chart-state{height:210px}}
+:root{font-size:15px}.sidebar{width:280px;padding:25px 18px}.main{margin-left:280px;padding-left:40px;padding-right:40px}.brand strong{font-size:15px}.brand-glyph{width:40px;height:40px}.topbar{height:60px;font-size:12px}.server-heading h1{font-size:27px}.server-heading{align-items:center}.heading-actions{display:flex;align-items:center;gap:12px;flex-wrap:wrap}.button{font-size:11px;padding:10px 14px}.stats-grid,.charts-grid{gap:14px}.stat{padding:16px;min-height:108px}.stat>strong{font-size:27px}.stat .eyebrow,.stat>small,.panel-title p{font-size:10px}.panel-title h2{font-size:15px}.chart,.chart-state{height:250px}.button.danger{border-color:#cc2929;color:#ff9fac}.button.danger:hover{background:#351e22;border-color:#e63333;color:#ff6b6b}.server-nav{padding:12px 10px}.server-nav strong{font-size:13px}@media(max-width:700px){.sidebar{width:100%;padding:10px 12px}.main{margin:0;padding:0 16px 36px}.server-heading{align-items:flex-start;gap:12px;flex-direction:column}.heading-actions{width:100%;justify-content:space-between}.topbar{height:48px}.chart,.chart-state{height:210px}}
 
-.checkbox-label{display:flex;align-items:center;gap:8px;font-size:10px;color:#aaa99f}
+.checkbox-label{display:flex;align-items:center;gap:8px;font-size:10px;color:#787a7c}
 .checkbox-label input{width:auto;margin:0}

diff --git a/README.md b/README.md
@@ -400,6 +400,7 @@ sudo ss -ltnp | grep xray
 | `tlsv1 alert internal error`, `ERR_SSL_PROTOCOL_ERROR` на `https://<IP>` | Клиент не отправляет SNI при подключении по IP, Caddy не может выбрать сертификат | Убедиться, что в `deploy/Caddyfile.internal` есть `default_sni {$APP_DOMAIN}` (в актуальной версии есть), затем: `docker compose -f docker-compose.tls.yml --env-file .env.vps restart caddy` |
 | Вход падает с `Load failed` (Safari), страница при этом открывается | Самоподписанный сертификат: Safari не применяет исключение «Перейти на сайт» к `fetch`/XHR | Установить корневой сертификат Caddy как доверенный (см. «Вариант B») или перейти на домен с Let's Encrypt; временно — открыть в Chrome/Firefox |
 | `could not find a network matching network mode vless-warden_default` | Переключение HTTP ↔ HTTPS: Compose удалил старую сеть раньше контейнеров | `docker compose -f docker-compose.tls.yml --env-file .env.vps down --remove-orphans` и снова `./deploy/vps-install.sh`. Новый установщик делает это сам |
+| `invalid pool request: Pool overlaps with other one on this address space` | Диапазон подсети пересекается с другой сетью Docker или хостом | `docker network prune -f`, либо `docker network rm vless-warden-tls`, затем повторить запуск `./deploy/vps-install.sh` |
 | `port is already allocated` для 80/443 | Старый стек или другой сервис держит порт | `docker ps`, затем `./deploy/vps-service.sh stop` и `./deploy/vps-install.sh`; проверьте `sudo ss -ltnp \| grep -E ':80\|:443'` |
 | Let's Encrypt не выпускает сертификат | Нет A-записи, закрыт 80/tcp, мешает прокси Cloudflare | `dig +short panel.example.com`; откройте 80/tcp в ufw и у провайдера; логи Caddy: `docker compose -f docker-compose.tls.yml --env-file .env.vps logs --tail=100 caddy` |
 | `Container vless-warden-app is unhealthy` | Не хватает RAM/swap, упала БД, ошибка в конфиге | `free -h`, `df -h`, `docker compose -f docker-compose.tls.yml --env-file .env.vps logs --tail=200 app db` |
